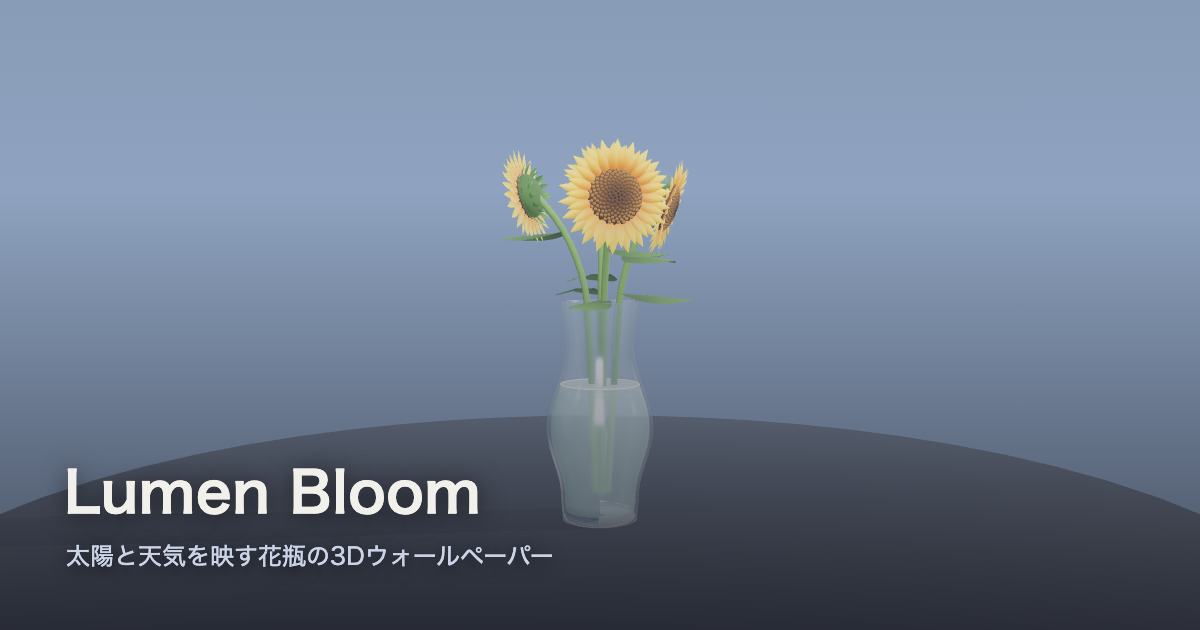
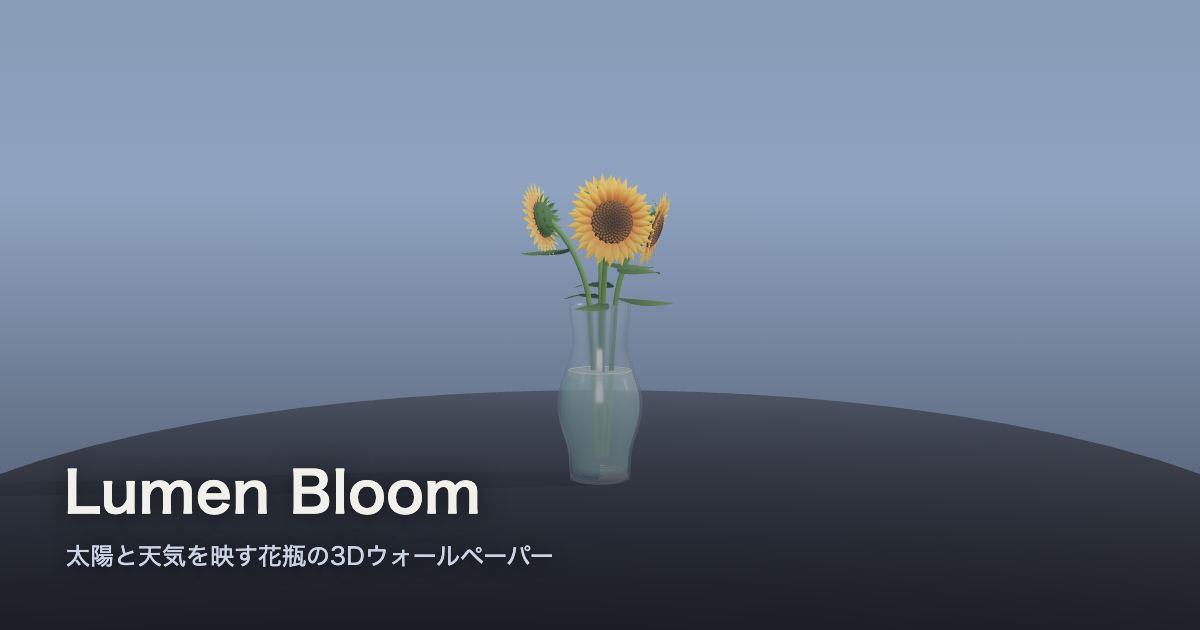
Fix always-visible location prompt, wash-out, and oversized centerpiece
Prompt: the CSS rule `.location-prompt { display: flex }` silently
defeated the UA's [hidden] { display: none }, so hide() had no visible
effect — the prompt stayed on screen even after a successful GPS fix,
ever since it was added. Fixed with an explicit [hidden] override,
verified via getComputedStyle (not the attribute, which always looked
correct). Also added a × button that dismisses the denied-state prompt
permanently (localStorage) so denied users aren't nagged by an
always-on wallpaper forever.

Wash-out: the bright white RoomEnvironment IBL at intensity 1.0 plus
1.1 exposure rendered everything pastel. Environment now caps at 0.55
in full day (floor/twilight rescaled), sun peak trimmed 3.2 → 2.6,
exposure 1.1 → 1.0, glass envMapIntensity 1.1 → 0.8. To keep the sky
backdrop from dimming with the IBL, the backdrop mix now uses a new
pure dayFactor curve instead of environmentLevel — the sky tint
already encodes the weather, so it only needs day/night progress.

Size: centerpiece scaled 0.8× with camera/sun-target reframed to match.

Changed region(s): [[0.0, 0.2111, 1.0, 0.8444], [0.2158, 0.754, 0.2467, 0.7841]]

diff --git a/src/engine/scene-state/sunLighting.ts b/src/engine/scene-state/sunLighting.ts
@@ -17,21 +17,30 @@ export interface SunLightingState {
   /** Ambient fill level; never fully zero so the wallpaper doesn't go pitch black at night. */
   ambientLevel: number;
   /**
-   * Image-based-environment (scene.environment) intensity, 0..1. Without
-   * this the IBL lights the scene at full constant strength around the
-   * clock and midnight renders like noon — the DirectionalLight is only
-   * part of what "daylight" means to a PBR material.
+   * Image-based-environment (scene.environment) intensity. Without this the
+   * IBL lights the scene at full constant strength around the clock and
+   * midnight renders like noon — the DirectionalLight is only part of what
+   * "daylight" means to a PBR material. Capped well below 1 even at noon:
+   * the RoomEnvironment map is a bright white interior, and at full
+   * strength it washes every material out toward pastel.
    */
   environmentLevel: number;
+  /**
+   * Pure day/twilight/night progress, 0 (deep night) .. 1 (full day) — for
+   * quantities like the backdrop color whose daylight value already encodes
+   * the weather and must not be dimmed a second time.
+   */
+  dayFactor: number;
 }
 
 const NIGHT_AMBIENT = 0.12;
 const TWILIGHT_AMBIENT = 0.28;
 const DAY_AMBIENT = 0.38;
 const NIGHT_ENVIRONMENT = 0.06;
-const TWILIGHT_ENVIRONMENT = 0.3;
-const DAY_ENVIRONMENT = 1.0;
-const PEAK_INTENSITY = 3.2;
+const TWILIGHT_ENVIRONMENT = 0.18;
+const DAY_ENVIRONMENT = 0.55;
+const TWILIGHT_DAY_FACTOR = 0.3;
+const PEAK_INTENSITY = 2.6;
 const CLOUD_ATTENUATION = 0.85;
 const WARM_K = 1900;
 const GOLDEN_K = 4500;
@@ -69,6 +78,9 @@ export function deriveSunLighting(
   const envBeforeDay = NIGHT_ENVIRONMENT + (TWILIGHT_ENVIRONMENT - NIGHT_ENVIRONMENT) * twilightMix;
   const environmentLevel = envBeforeDay + (DAY_ENVIRONMENT - envBeforeDay) * dayMix;
 
+  const dayBase = TWILIGHT_DAY_FACTOR * twilightMix;
+  const dayFactor = dayBase + (1 - dayBase) * dayMix;
+
   // Direct light only exists once the sun clears the horizon, clouds cut it
   // but never fully to zero (diffuse light still gets through an overcast sky).
   const directRamp = smoothstep(0, 20, alt);
@@ -86,5 +98,6 @@ export function deriveSunLighting(
     colorTempK,
     ambientLevel,
     environmentLevel,
+    dayFactor,
   };
 }

diff --git a/src/styles.css b/src/styles.css
@@ -51,6 +51,27 @@ body {
   font: 0.8rem/1.4 system-ui, sans-serif;
 }
 
+/* The explicit display:flex above defeats the UA's [hidden] { display:none },
+   so hide() silently did nothing without this — the prompt stayed on screen
+   even after a successful GPS fix. */
+.location-prompt[hidden] {
+  display: none;
+}
+
+.location-prompt .close {
+  padding: 0.35rem 0.55rem;
+  border: none;
+  background: transparent;
+  color: #8a93aa;
+  font-size: 1rem;
+  line-height: 1;
+  cursor: pointer;
+}
+
+.location-prompt .close:hover {
+  color: #cbd3e6;
+}
+
 .location-prompt button {
   flex: none;
   padding: 0.35rem 0.8rem;

diff --git a/src/ui/permissionPrompt.ts b/src/ui/permissionPrompt.ts
@@ -4,6 +4,8 @@
 
 import { el } from "./dom";
 
+const DISMISS_KEY = "lumen-bloom:location-prompt-dismissed";
+
 export interface PermissionPrompt {
   showDenied(onRetry: () => void): void;
   hide(): void;
@@ -16,13 +18,25 @@ export function createPermissionPrompt(mount: HTMLElement): PermissionPrompt {
     el("span", {}, "位置情報を許可すると、太陽の位置がこの場所に合わせて正確になります。"),
   );
   const retryButton = el("button", { type: "button" }, "再試行");
-  node.append(retryButton);
+  const closeButton = el(
+    "button",
+    { type: "button", class: "close", "aria-label": "閉じる" },
+    "×",
+  );
+  // Denied-permission users shouldn't be nagged on every launch of an
+  // always-on wallpaper — × hides the prompt for good (per browser).
+  closeButton.addEventListener("click", () => {
+    node.hidden = true;
+    localStorage.setItem(DISMISS_KEY, "1");
+  });
+  node.append(retryButton, closeButton);
   mount.append(node);
 
   let currentHandler: (() => void) | null = null;
 
   return {
     showDenied(onRetry: () => void): void {
+      if (localStorage.getItem(DISMISS_KEY) !== null) return;
       if (currentHandler) retryButton.removeEventListener("click", currentHandler);
       currentHandler = onRetry;
       retryButton.addEventListener("click", currentHandler);

diff --git a/src/engine/scene-state/sunLighting.test.ts b/src/engine/scene-state/sunLighting.test.ts
@@ -7,15 +7,22 @@ describe("deriveSunLighting", () => {
     expect(state.intensity).toBe(0);
     expect(state.ambientLevel).toBeCloseTo(0.12, 5);
     expect(state.environmentLevel).toBeCloseTo(0.06, 5);
+    expect(state.dayFactor).toBe(0);
     expect(state.colorTempK).toBeCloseTo(1900, 5);
   });
 
   it("reaches the daytime plateau at a high midday altitude", () => {
     const state = deriveSunLighting({ azimuth: 180, apparentAltitude: 60 });
-    expect(state.intensity).toBeCloseTo(3.2, 5);
+    expect(state.intensity).toBeCloseTo(2.6, 5);
     expect(state.ambientLevel).toBeCloseTo(0.38, 5);
-    expect(state.environmentLevel).toBeCloseTo(1.0, 5);
+    expect(state.environmentLevel).toBeCloseTo(0.55, 5);
+    expect(state.dayFactor).toBe(1);
     expect(state.colorTempK).toBeCloseTo(5800, 5);
+  });
+
+  it("gives twilight a partial dayFactor for a dawn-tinted backdrop", () => {
+    const state = deriveSunLighting({ azimuth: 90, apparentAltitude: 0 });
+    expect(state.dayFactor).toBeCloseTo(0.3, 5);
   });
 
   it("never lets direct light through below the horizon", () => {
@@ -43,6 +50,7 @@ describe("deriveSunLighting", () => {
       expect(states[i].intensity).toBeGreaterThanOrEqual(states[i - 1].intensity);
       expect(states[i].ambientLevel).toBeGreaterThanOrEqual(states[i - 1].ambientLevel);
       expect(states[i].environmentLevel).toBeGreaterThanOrEqual(states[i - 1].environmentLevel);
+      expect(states[i].dayFactor).toBeGreaterThanOrEqual(states[i - 1].dayFactor);
       expect(states[i].colorTempK).toBeGreaterThanOrEqual(states[i - 1].colorTempK);
     }
   });

diff --git a/src/scene/renderer.ts b/src/scene/renderer.ts
@@ -31,7 +31,7 @@ export function createRenderContext(canvas: HTMLCanvasElement): RenderContext {
   renderer.setSize(window.innerWidth, window.innerHeight);
   renderer.setClearColor(BACKDROP, 1);
   renderer.toneMapping = THREE.ACESFilmicToneMapping;
-  renderer.toneMappingExposure = 1.1;
+  renderer.toneMappingExposure = 1.0;
   renderer.shadowMap.enabled = true;
   renderer.shadowMap.type = THREE.PCFSoftShadowMap;
 
@@ -45,9 +45,10 @@ export function createRenderContext(canvas: HTMLCanvasElement): RenderContext {
     0.05,
     20,
   );
-  // Framed for the sunflower arrangement: vase 0.32m + stems/heads up to ~0.6m.
-  camera.position.set(0, 0.4, 1.45);
-  camera.lookAt(0, 0.3, 0);
+  // Framed for the sunflower arrangement (scaled 0.8× in scene.ts, so the
+  // whole cluster tops out around ~0.5m and reads a size smaller in frame).
+  camera.position.set(0, 0.34, 1.45);
+  camera.lookAt(0, 0.24, 0);
 
   function resize(): void {
     const w = window.innerWidth;

diff --git a/src/scene/scene.ts b/src/scene/scene.ts
@@ -32,7 +32,11 @@ export function createSceneRig(ctx: RenderContext, reducedMotion = false): Scene
   ctx.scene.add(createGround());
 
   const factory = getSceneObject(VASE_OBJECT_ID);
-  if (factory) ctx.scene.add(factory.create());
+  if (factory) {
+    const centerpiece = factory.create();
+    centerpiece.scale.setScalar(0.8); // one size smaller in frame; still standing on y=0
+    ctx.scene.add(centerpiece);
+  }
 
   const weatherEffects = createWeatherEffects(reducedMotion);
   ctx.scene.add(weatherEffects.group);

diff --git a/src/engine/scene-state/sceneState.ts b/src/engine/scene-state/sceneState.ts
@@ -41,6 +41,9 @@ export function deriveSceneState(
       environmentLevel,
     },
     mood,
-    backdropHex: lerpHex(NIGHT_BACKDROP, mood.skyTintHex, environmentLevel),
+    // dayFactor, not environmentLevel: the sky tint already encodes the
+    // weather (storm's tint is dark), so dimming the mix by cloud cover too
+    // would darken overcast skies twice.
+    backdropHex: lerpHex(NIGHT_BACKDROP, mood.skyTintHex, baseSun.dayFactor),
   };
 }

diff --git a/src/scene/lighting/sunLight.ts b/src/scene/lighting/sunLight.ts
@@ -26,7 +26,7 @@ export function createSunLightRig(): SunLightRig {
   light.shadow.mapSize.set(2048, 2048);
   light.shadow.bias = -5e-4;
   light.shadow.normalBias = 0.005;
-  light.target.position.set(0, 0.3, 0); // roughly the vase+sunflowers cluster center
+  light.target.position.set(0, 0.24, 0); // roughly the (0.8×-scaled) cluster center
 
   function update(dirEnu: readonly [number, number, number], intensity: number, colorTempK: number): void {
     light.position.set(

diff --git a/src/scene/objects/vase.ts b/src/scene/objects/vase.ts
@@ -44,7 +44,7 @@ function createGlassMesh(outer: readonly ProfilePoint[], inner: readonly Profile
     transmission: 1.0,
     thickness: 0.008,
     ior: 1.5,
-    envMapIntensity: 1.1,
+    envMapIntensity: 0.8,
     clearcoat: 0.5,
     clearcoatRoughness: 0.2,
     // Without this the glass writes depth and the alpha-blended water inside